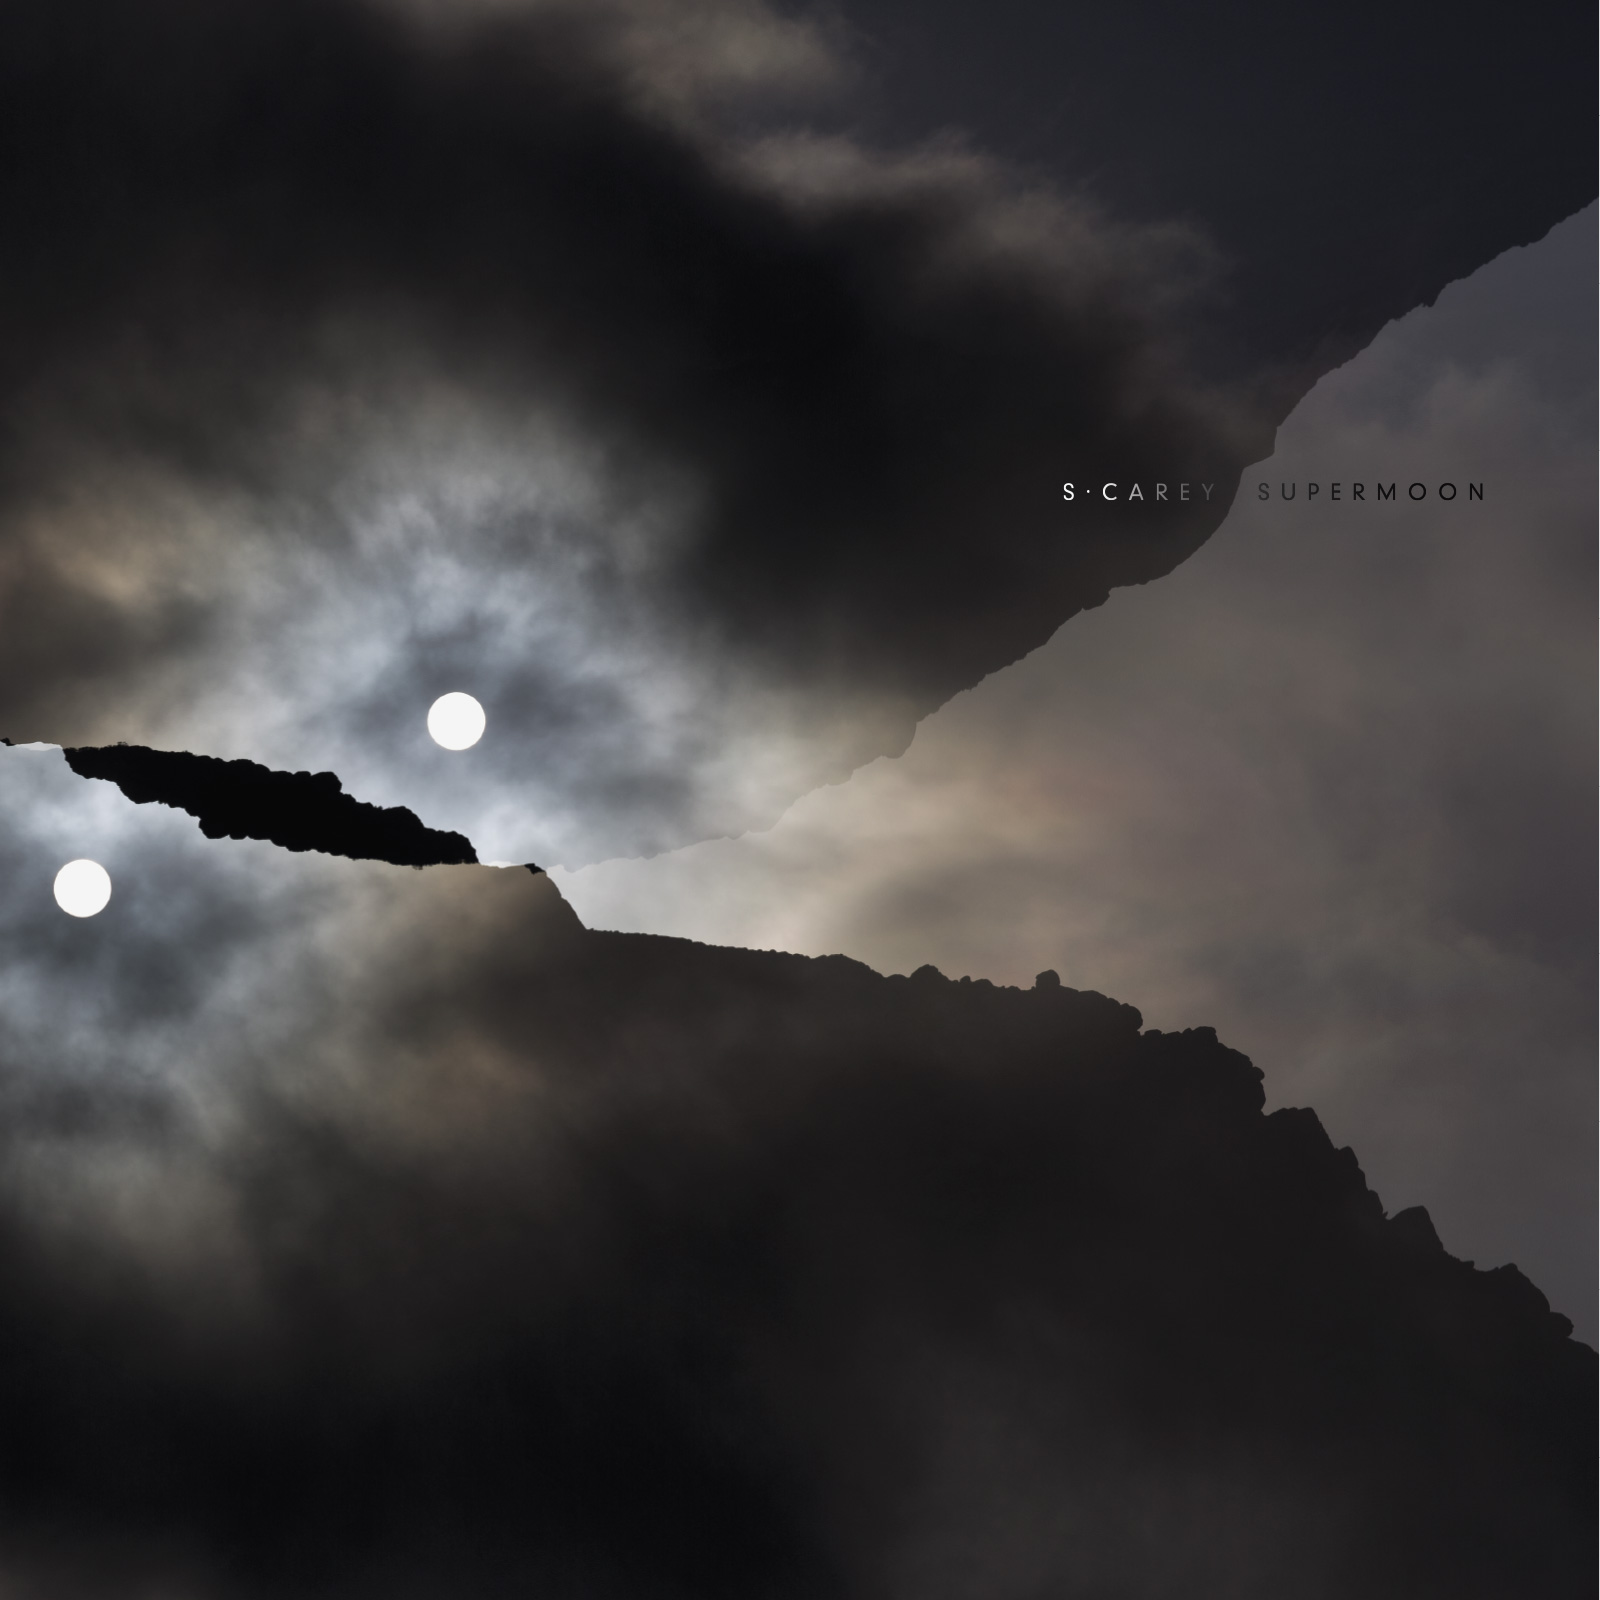
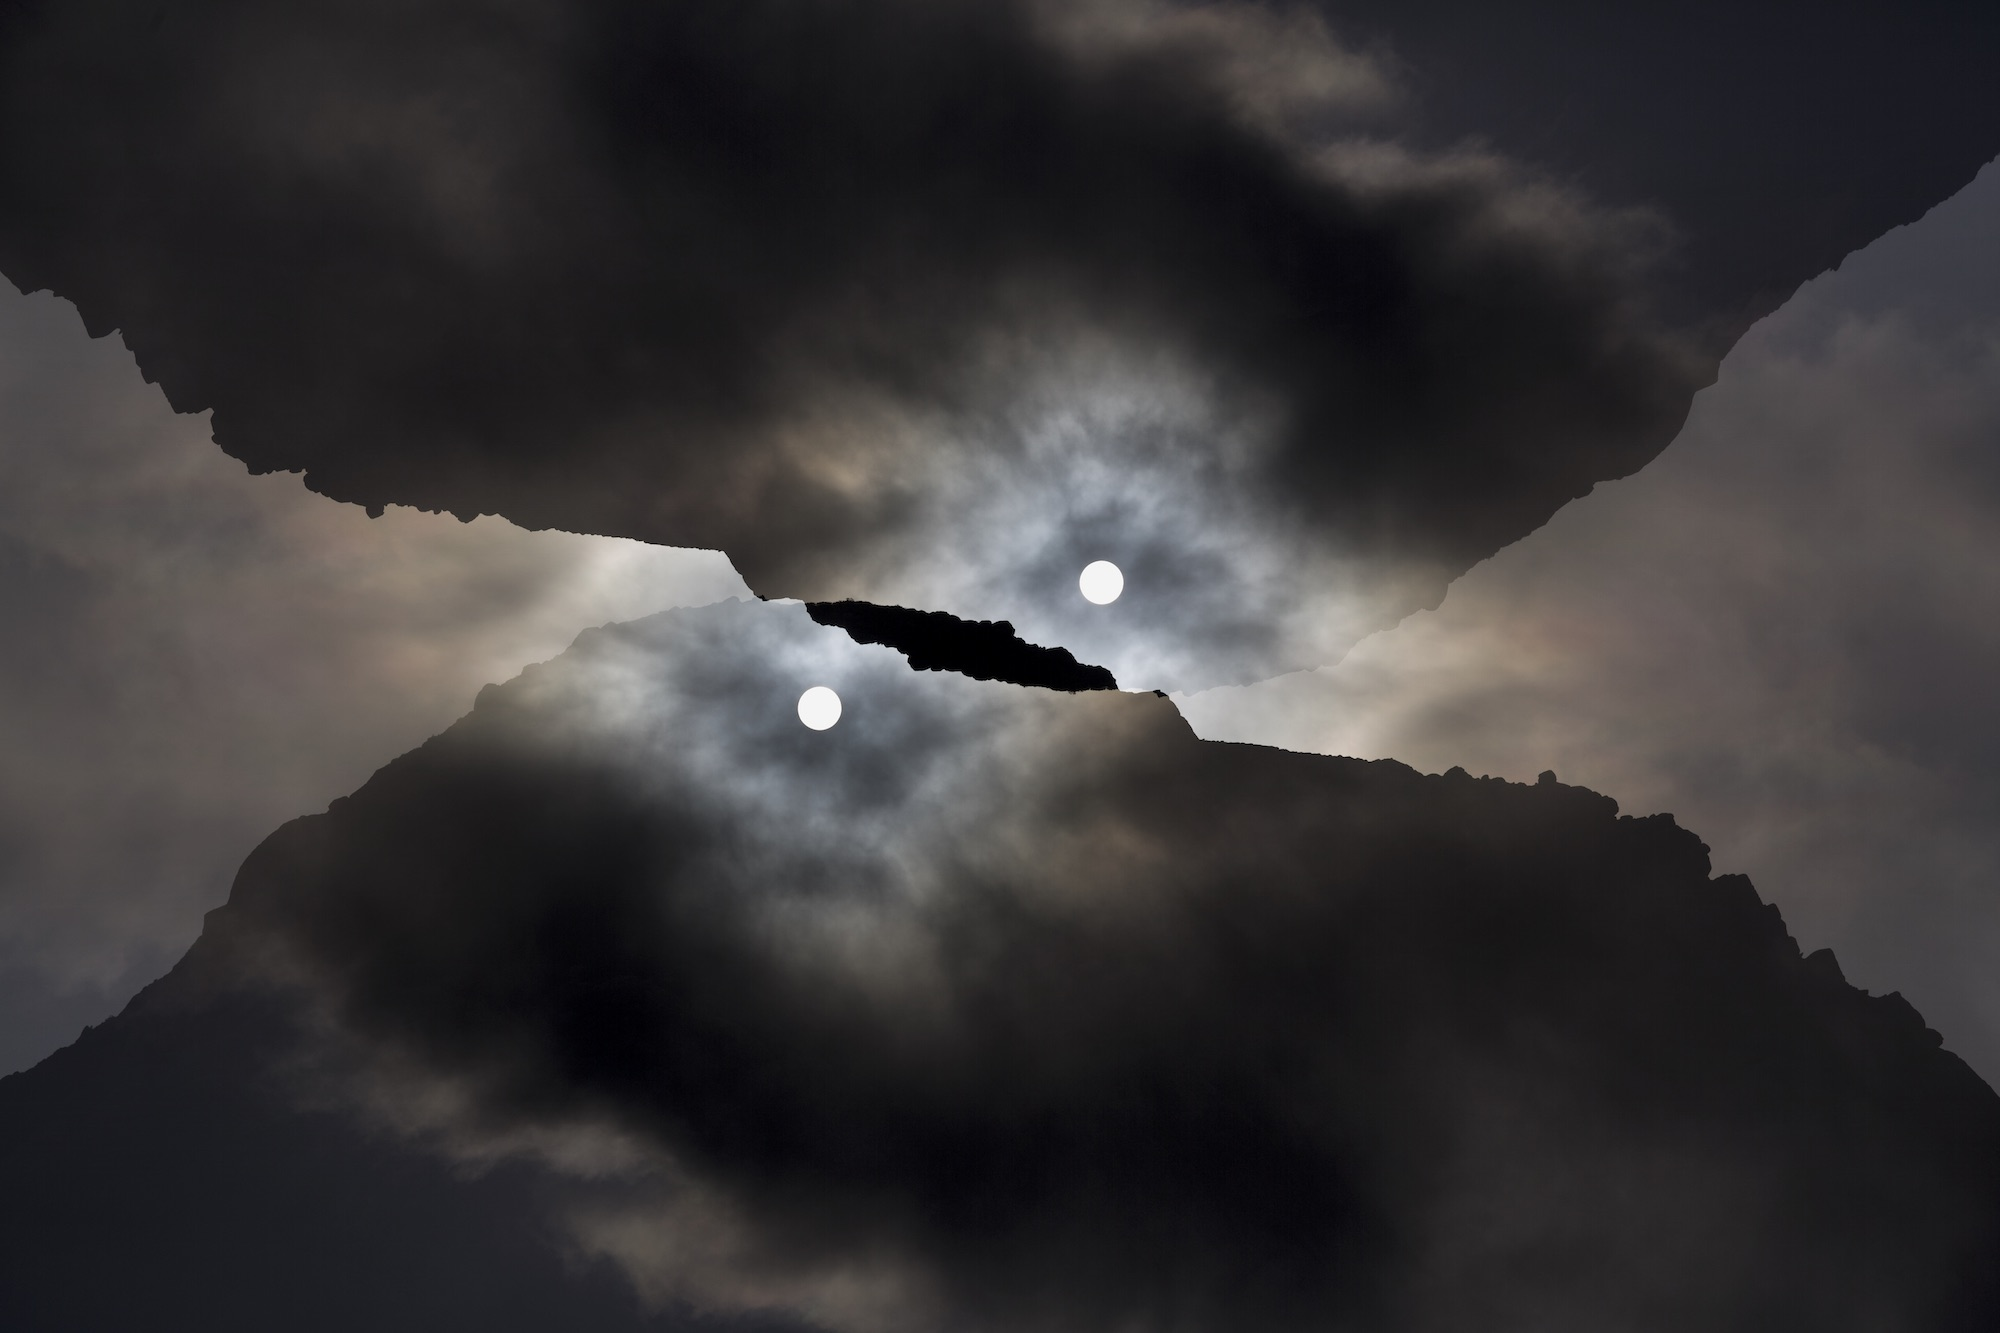
new background images

diff --git a/albums/EP.html b/albums/EP.html
@@ -102,9 +102,9 @@
                             
                             <span data-picture data-alt="Supermoon EP cover">
                                 <span data-src="../assets/img/covers/supermoon-front--large.jpg"></span>
-                                <span data-src="../assets/img/covers/supermoon-front--small.jpg" data-media="(min-width: 50em)"></span>
+                                <span data-src="../assets/img/covers/supermoon-front--small.jpeg" data-media="(min-width: 50em)"></span>
                                 <noscript>
-                                    <img src="../assets/img/covers/supermoon-front--small.jpg" alt="Supermoon EP cover">
+                                    <img src="../assets/img/covers/supermoon-front--small.jpeg" alt="Supermoon EP cover">
                                 </noscript>
                             </span>
                             
@@ -122,7 +122,7 @@
                     <div class="two-thirds">
                         <h3 class="small-header delta">Description</h3>
                         
-                        <p class="text-block"><p>Recorded primarily during the perigee-syzygy (also known as the super moon) of August 2014, the Supermoon EP from S. Carey is a study in scale, space, and proximity. These songs are a new and closer look into existing works from both S. Carey's renowned full-lengths, 2010's All We Grow and 2014's Range of Light. With Supermoon, Carey has broken these songs down to their essential, acoustic parts with his forever humming vocals laid over top, lilting yet percussive piano, and a subtle swath of harmonic strings. You can hear Carey's breath between words and the pat of his fingers on the keys; you can hear the living room in which his family's baby grand piano sits. These songs are beautiful, intimate and so potently personal. This collection is a stark presentation of S. Carey laid bare, an open invitation for the listener to climb into his world.</p><p>One particularly poignant piece is the re-imagined Range of Light closer, "Neverending Fountain," perhaps an apt metaphor for the life of the songs themselves. Says Carey, "The longer you spend with a song, the more you can see it in its pure form." Supermoon also features a heartrending cover of "Bullet Proof.. I Wish I Was" from Radiohead's classic album The Bends, and a new song, the EP's namesake, "Supermoon," which takes its inspiration, like much of Carey's work, from the natural world around him.</p><p>Another source of inspiration quoted by Carey is the excitement of working out arrangements for pre-existing songs on the spot, for various sessions on tour. He brought that spirit to the recording of Supermoon, which took place over the course of a single weekend. Already known as an artist of impeccable craft, S. Carey worked with long-time friends and collaborators (Mike Noyce played viola, Zach Hanson engineered, mixed, and mastered) to add a chapter to the still unfolding story of Sean Carey as an artist. We can hear the songwriting, singing and performance for what it truly is; understated, true and pure beauty.</p>
+                        <p class="text-block"><p class='text-block'>Recorded primarily during the perigee-syzygy (also known as the super moon) of August 2014, the Supermoon EP from S. Carey is a study in scale, space, and proximity. These songs are a new and closer look into existing works from both S. Carey's renowned full-lengths, 2010's All We Grow and 2014's Range of Light. With Supermoon, Carey has broken these songs down to their essential, acoustic parts with his forever humming vocals laid over top, lilting yet percussive piano, and a subtle swath of harmonic strings. You can hear Carey's breath between words and the pat of his fingers on the keys; you can hear the living room in which his family's baby grand piano sits. These songs are beautiful, intimate and so potently personal. This collection is a stark presentation of S. Carey laid bare, an open invitation for the listener to climb into his world.</p><p class='text-block'>One particularly poignant piece is the re-imagined Range of Light closer, "Neverending Fountain," perhaps an apt metaphor for the life of the songs themselves. Says Carey, "The longer you spend with a song, the more you can see it in its pure form." Supermoon also features a heartrending cover of "Bullet Proof.. I Wish I Was" from Radiohead's classic album The Bends, and a new song, the EP's namesake, "Supermoon," which takes its inspiration, like much of Carey's work, from the natural world around him.</p><p class='text-block'>Another source of inspiration quoted by Carey is the excitement of working out arrangements for pre-existing songs on the spot, for various sessions on tour. He brought that spirit to the recording of Supermoon, which took place over the course of a single weekend. Already known as an artist of impeccable craft, S. Carey worked with long-time friends and collaborators (Mike Noyce played viola, Zach Hanson engineered, mixed, and mastered) to add a chapter to the still unfolding story of Sean Carey as an artist. We can hear the songwriting, singing and performance for what it truly is; understated, true and pure beauty.</p></p>
                         
 
                         <div id="tracks" class="album-tracklist">

diff --git a/assets/css/style.css b/assets/css/style.css
@@ -510,12 +510,12 @@ body {
   -webkit-font-smoothing: antialiased !important;
   color: #f8f8f8;
   /*background: #f8f8f8 url("../img/bg--mobile.jpg") top left no-repeat;*/
-  background: #f8f8f8 url("../img/bg--dark.jpg") fixed top left no-repeat; }
+  background: #f8f8f8 url("../img/bg--dark-edit1.jpeg") fixed top left no-repeat; }
   @media (min-width: 50em) {
     body {
       overflow: auto;
       /*background: #f8f8f8 url("../img/bg.jpg") fixed left bottom no-repeat;*/
-      background: #f8f8f8 url("../img/bg--dark.jpg") fixed top left no-repeat;
+      background: #f8f8f8 url("../img/bg--dark-edit1.jpeg") fixed top left no-repeat;
       background-size: cover; } }
 
 .no-js body {

diff --git a/index.html b/index.html
@@ -79,7 +79,7 @@
         src="//www.youtube.com/embed/BvCrWE-i2_g?autohide=1&modestbranding=1&theme=dark" frameborder="0" allowfullscreen></iframe>
 </div>
 
-<h1 class="alpha center"><span class="brand-color">Supermoon EP</span></h1>
+<h1 class="alpha center"><span class="">Supermoon EP</span></h1>
 <div class="preorder">
     <p>PREORDER:</p>
     <a target="_blank" href="http://smarturl.it/supermoon_scd">CD / LP</a>
